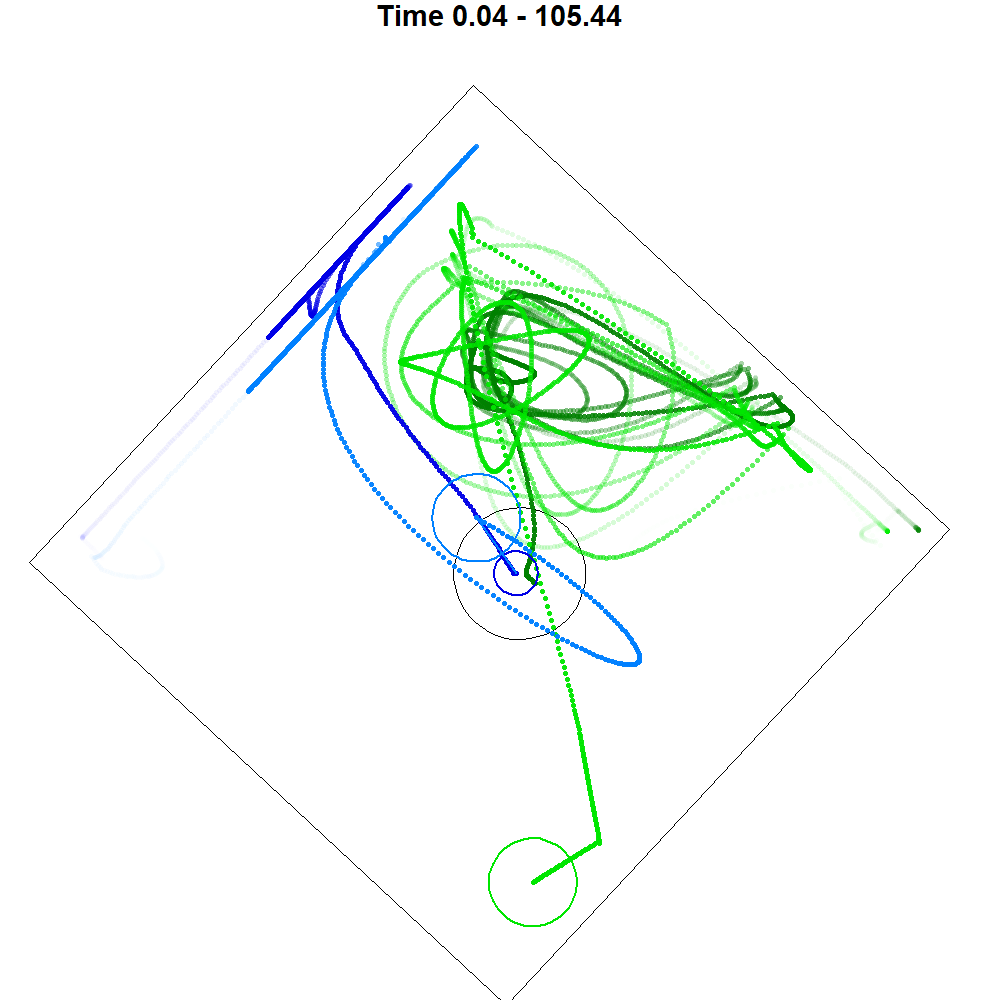
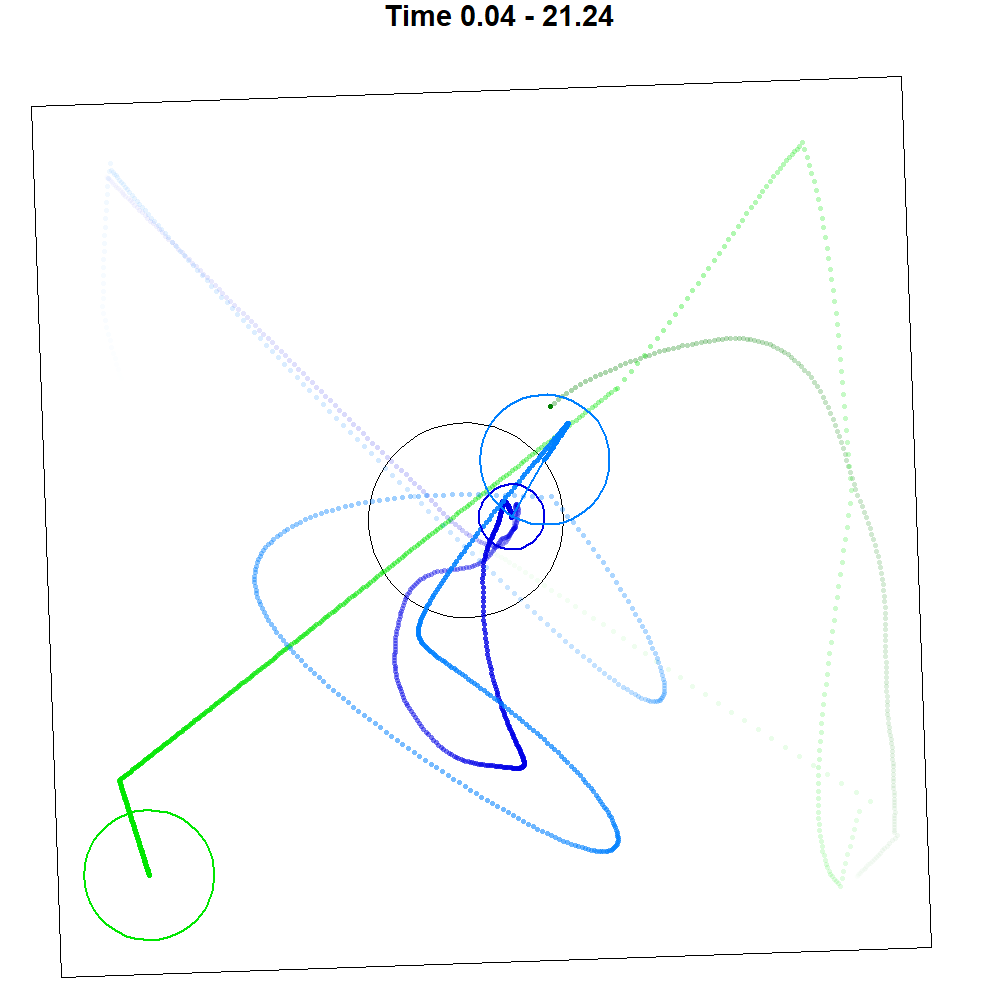
continuation value

diff --git a/guard/generator.py b/guard/generator.py
@@ -181,7 +181,8 @@ class DataGenerator:
                 end_prob = p * (1 - p) ** t
                 target += end_prob * self.reward
             bootstrap_estimate = self.reward if horizon == 0 else self.value_model(self.state)
-            continuation_value = torch.where(self.agent1.alive, bootstrap_estimate, 1) 
+            continuation_value = torch.where(self.agent1.alive, bootstrap_estimate, 1)
+            continuation_value = torch.where(self.world.charge>=1, 0.0, continuation_value) 
             continuation_prob = (1-p) ** self.step_count
             target += continuation_prob * continuation_value
             return state, target